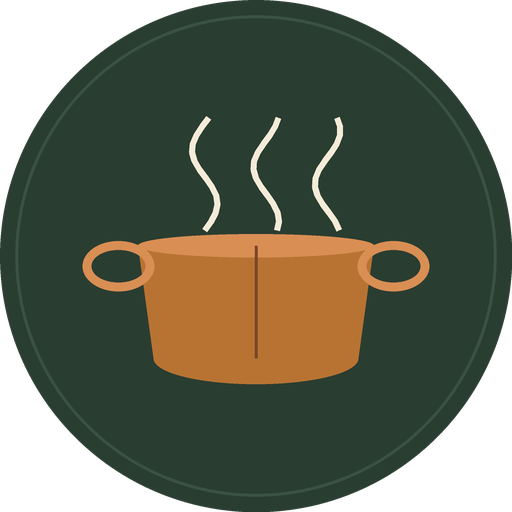
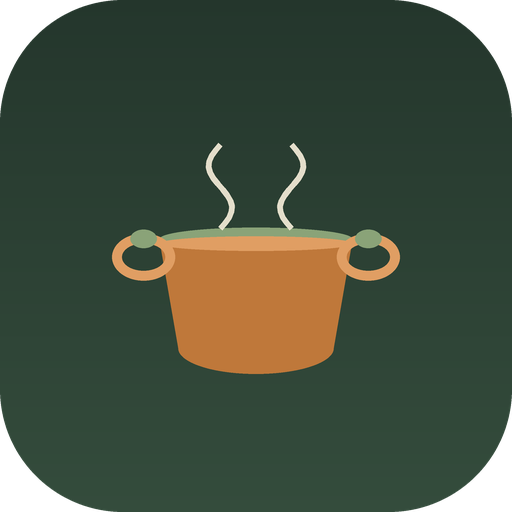
Add files via upload

diff --git a/style.css b/style.css
@@ -1,5 +1,5 @@
 /* ===========================================================
-   Copper Larder — design tokens
+   Verdigris — design tokens
    =========================================================== */
 :root {
   /* greens */
@@ -197,21 +197,41 @@ button { font-family: var(--font-body); cursor: pointer; }
 .btn-danger .icon { stroke: var(--copper-dark); }
 
 /* ===========================================================
-   Tag bar — hanging pantry labels
+   Tag section — a little hanging-label cloud, always visible
    =========================================================== */
-.tag-bar {
+.tag-section {
   position: relative;
   z-index: 1;
+  max-width: 1180px;
+  margin: 0 auto;
+  padding: 16px 20px 4px;
+}
+.tag-section-head {
   display: flex;
-  gap: 10px;
-  padding: 14px 20px 6px;
-  overflow-x: auto;
-  scrollbar-width: thin;
+  align-items: center;
+  gap: 7px;
+  margin-bottom: 10px;
+}
+.tag-section-head .icon { width: 15px; height: 15px; stroke: var(--copper); }
+.tag-section-head h2 {
+  font-family: var(--font-mono);
+  font-size: 0.72rem;
+  letter-spacing: 0.06em;
+  text-transform: uppercase;
+  color: var(--ink-soft);
+  margin: 0;
+  font-weight: 700;
+}
+
+.tag-bar {
+  display: flex;
+  flex-wrap: wrap;
+  gap: 8px 10px;
+  align-items: center;
 }
 
 .tag-chip {
   position: relative;
-  flex-shrink: 0;
   display: inline-flex;
   align-items: center;
   gap: 6px;
@@ -225,7 +245,12 @@ button { font-family: var(--font-body); cursor: pointer; }
   border-radius: 3px 10px 10px 3px;
   cursor: pointer;
   white-space: nowrap;
+  line-height: 1.3;
 }
+/* tag-cloud sizing — busier tags read a little bigger */
+.tag-chip.size-2 { font-size: 0.82rem; padding: 8px 15px 8px 21px; }
+.tag-chip.size-3 { font-size: 0.92rem; padding: 9px 16px 9px 22px; font-weight: 700; }
+
 .tag-chip::before {
   content: "";
   position: absolute;
@@ -248,6 +273,7 @@ button { font-family: var(--font-body); cursor: pointer; }
 
 /* ===========================================================
    Recipe grid — index cards pinned to the board
+
    =========================================================== */
 main#mainArea { position: relative; z-index: 1; padding: 10px 20px 40px; max-width: 1180px; margin: 0 auto; }
 
@@ -305,7 +331,7 @@ main#mainArea { position: relative; z-index: 1; padding: 10px 20px 40px; max-wid
 
 .card-thumb {
   width: 100%;
-  height: 140px;
+  height: 190px;
   border-radius: 6px;
   overflow: hidden;
   margin-bottom: 10px;
@@ -581,9 +607,11 @@ dialog.sheet::backdrop { background: rgba(20, 24, 18, 0.55); backdrop-filter: bl
   width: 100%;
   flex: 0 0 100%;
   scroll-snap-align: start;
-  max-height: 320px;
+  max-height: 58vh;
+  min-height: 220px;
   object-fit: contain;
   background: var(--cream-deep);
+  cursor: zoom-in;
 }
 .gallery-nav {
   position: absolute;
@@ -644,6 +672,50 @@ dialog.sheet::backdrop { background: rgba(20, 24, 18, 0.55); backdrop-filter: bl
 }
 
 /* ===========================================================
+   Lightbox — full-size image view
+   =========================================================== */
+dialog.lightbox {
+  position: fixed;
+  inset: 0;
+  margin: 0;
+  width: 100vw;
+  height: 100vh;
+  max-width: 100vw;
+  max-height: 100vh;
+  background: rgba(15, 18, 14, 0.94);
+  border: none;
+  padding: 0;
+  display: flex;
+  align-items: center;
+  justify-content: center;
+}
+dialog.lightbox::backdrop { background: transparent; }
+dialog.lightbox img {
+  max-width: 92vw;
+  max-height: 88vh;
+  object-fit: contain;
+  border-radius: 4px;
+  box-shadow: 0 20px 60px rgba(0,0,0,0.5);
+}
+.lightbox-close {
+  position: absolute;
+  top: 16px;
+  right: 16px;
+  background: rgba(255,255,255,0.12);
+  z-index: 3;
+}
+.lightbox-close .icon { stroke: var(--cream); }
+.lightbox-close:hover { background: rgba(255,255,255,0.22); }
+.lightbox-prev, .lightbox-next {
+  background: rgba(255,255,255,0.12);
+  width: 44px;
+  height: 44px;
+}
+.lightbox-prev { left: 16px; }
+.lightbox-next { right: 16px; }
+.lightbox-prev:hover, .lightbox-next:hover { background: rgba(255,255,255,0.22); }
+
+/* ===========================================================
    Toast
    =========================================================== */
 .toast {
@@ -677,7 +749,7 @@ dialog.sheet::backdrop { background: rgba(20, 24, 18, 0.55); backdrop-filter: bl
   .app-header { padding: 18px 14px 14px; }
   .brand-text h1 { font-size: 1.35rem; }
   main#mainArea { padding: 8px 14px 30px; }
-  .tag-bar { padding: 12px 14px 4px; }
+  .tag-section { padding: 12px 14px 4px; }
   .recipe-grid { gap: 18px 14px; grid-template-columns: repeat(auto-fill, minmax(150px, 1fr)); }
   dialog.sheet { width: 94vw; max-height: 92vh; }
 }

diff --git a/app.js b/app.js
@@ -1,5 +1,5 @@
 /* ===========================================================
-   Copper & Thyme — app.js
+   Verdigris — app.js
    =========================================================== */
 
 const DB_NAME = "copper-larder";
@@ -15,6 +15,7 @@ let currentImages = [];        // data URLs attached in the open form
 let editingId = null;          // id of recipe being edited, or null for new
 let detailRecipeId = null;     // id of recipe currently shown in detail dialog
 let galleryIndex = 0;
+let currentGalleryImages = [];
 
 /* ----------------------- IndexedDB ----------------------- */
 
@@ -136,6 +137,7 @@ function fileToDataURL(file) {
 
 function renderTagBar() {
   const bar = document.getElementById("tagBar");
+  const section = document.getElementById("tagSection");
   const counts = new Map(); // lowercase -> { label, count }
 
   recipes.forEach((r) => {
@@ -146,7 +148,11 @@ function renderTagBar() {
     });
   });
 
+  section.hidden = counts.size === 0;
+  if (counts.size === 0) return;
+
   const sorted = [...counts.entries()].sort((a, b) => a[1].label.localeCompare(b[1].label));
+  const maxCount = Math.max(...sorted.map(([, info]) => info.count));
 
   bar.innerHTML = "";
 
@@ -160,7 +166,10 @@ function renderTagBar() {
   sorted.forEach(([key, info]) => {
     const chip = document.createElement("button");
     chip.type = "button";
-    chip.className = "tag-chip" + (activeTag === key ? " is-active" : "");
+    // simple tag-cloud effect: busier tags read a little bigger
+    const ratio = info.count / maxCount;
+    const sizeClass = ratio > 0.66 ? " size-3" : ratio > 0.33 ? " size-2" : "";
+    chip.className = "tag-chip" + sizeClass + (activeTag === key ? " is-active" : "");
     chip.innerHTML = `${escapeHTML(info.label)} <span class="count">${info.count}</span>`;
     chip.addEventListener("click", () => {
       activeTag = activeTag === key ? null : key;
@@ -388,6 +397,8 @@ function renderImagePreviews() {
     item.className = "image-preview-item";
     const img = document.createElement("img");
     img.src = src;
+    img.style.cursor = "zoom-in";
+    img.addEventListener("click", () => openLightbox(currentImages, idx));
     item.appendChild(img);
     const btn = document.createElement("button");
     btn.type = "button";
@@ -492,6 +503,7 @@ function renderGallery(images) {
   const dots = document.getElementById("galleryDots");
   track.innerHTML = "";
   dots.innerHTML = "";
+  currentGalleryImages = images;
 
   if (!images.length) {
     gallery.hidden = true;
@@ -499,10 +511,11 @@ function renderGallery(images) {
   }
   gallery.hidden = false;
 
-  images.forEach((src) => {
+  images.forEach((src, i) => {
     const img = document.createElement("img");
     img.src = src;
     img.alt = "";
+    img.addEventListener("click", () => openLightbox(images, i));
     track.appendChild(img);
   });
   images.forEach((_, i) => {
@@ -523,11 +536,36 @@ function scrollGallery(dir) {
   track.scrollBy({ left: dir * track.clientWidth, behavior: "smooth" });
 }
 
+/* ----------------------- Lightbox (full-size image view) ----------------------- */
+
+const lightbox = document.getElementById("lightbox");
+let lightboxImages = [];
+let lightboxIndex = 0;
+
+function openLightbox(images, index) {
+  lightboxImages = images;
+  lightboxIndex = index;
+  showLightboxImage();
+  lightbox.showModal();
+}
+
+function showLightboxImage() {
+  document.getElementById("lightboxImg").src = lightboxImages[lightboxIndex] || "";
+  const multi = lightboxImages.length > 1;
+  document.getElementById("lightboxPrev").hidden = !multi;
+  document.getElementById("lightboxNext").hidden = !multi;
+}
+
+function lightboxStep(dir) {
+  lightboxIndex = (lightboxIndex + dir + lightboxImages.length) % lightboxImages.length;
+  showLightboxImage();
+}
+
 /* ----------------------- Export / Import ----------------------- */
 
 function exportData() {
   const payload = {
-    app: "copper-and-thyme",
+    app: "verdigris",
     exportedAt: new Date().toISOString(),
     recipes
   };
@@ -535,7 +573,7 @@ function exportData() {
   const url = URL.createObjectURL(blob);
   const a = document.createElement("a");
   a.href = url;
-  a.download = `copper-and-thyme-backup-${new Date().toISOString().slice(0, 10)}.json`;
+  a.download = `verdigris-backup-${new Date().toISOString().slice(0, 10)}.json`;
   document.body.appendChild(a);
   a.click();
   a.remove();
@@ -574,7 +612,7 @@ async function importData(file) {
     showToast(`Imported ${added} recipe${added === 1 ? "" : "s"}`);
   } catch (err) {
     console.error(err);
-    showToast("Couldn't read that file — is it a Copper & Thyme export?");
+    showToast("Couldn't read that file — is it a Verdigris export?");
   }
 }
 
@@ -669,8 +707,17 @@ function wireEvents() {
     e.target.value = "";
   });
 
+  // lightbox
+  document.getElementById("closeLightbox").addEventListener("click", () => lightbox.close());
+  document.getElementById("lightboxPrev").addEventListener("click", () => lightboxStep(-1));
+  document.getElementById("lightboxNext").addEventListener("click", () => lightboxStep(1));
+  lightbox.addEventListener("keydown", (e) => {
+    if (e.key === "ArrowLeft") lightboxStep(-1);
+    if (e.key === "ArrowRight") lightboxStep(1);
+  });
+
   // close dialogs on backdrop click
-  [recipeModal, detailModal].forEach((dlg) => {
+  [recipeModal, detailModal, lightbox].forEach((dlg) => {
     dlg.addEventListener("click", (e) => {
       if (e.target === dlg) dlg.close();
     });

diff --git a/index.html b/index.html
@@ -3,7 +3,7 @@
 <head>
 <meta charset="UTF-8" />
 <meta name="viewport" content="width=device-width, initial-scale=1, viewport-fit=cover" />
-<title>Copper & Thyme — your recipe pantry</title>
+<title>Verdigris — your recipe pantry</title>
 <meta name="description" content="A cozy pantry for every recipe screenshot, link, and scribble worth keeping." />
 <meta name="theme-color" content="#2A3D31" />
 <link rel="manifest" href="./manifest.json" />
@@ -43,8 +43,8 @@
   <div class="brand">
     <svg class="brand-pot" viewBox="0 0 24 24"><use href="#i-pot"/></svg>
     <div class="brand-text">
-      <h1>Copper & Thyme</h1>
-      <p class="tagline">every recipe worth keeping, in one warm pantry</p>
+      <h1>Verdigris</h1>
+      <p class="tagline">the patina of a kitchen well-loved</p>
     </div>
   </div>
 
@@ -70,9 +70,15 @@
   </div>
 </header>
 
-<nav id="tagBar" class="tag-bar" aria-label="Filter by tag">
-  <!-- chips injected by app.js -->
-</nav>
+<section class="tag-section" id="tagSection" hidden>
+  <div class="tag-section-head">
+    <svg class="icon"><use href="#i-leaf"/></svg>
+    <h2>Browse by tag</h2>
+  </div>
+  <nav id="tagBar" class="tag-bar" aria-label="Filter by tag">
+    <!-- chips injected by app.js -->
+  </nav>
+</section>
 
 <main id="mainArea">
   <section id="recipeGrid" class="recipe-grid"></section>
@@ -106,7 +112,7 @@
     </button>
     <input type="file" id="importFile" accept="application/json" hidden />
   </div>
-  <p class="footer-note">Everything is stored only on this device. To share your pantry with someone — or move it to a new phone — tap "Export" and send them the file; they open Copper &amp; Thyme and tap "Import" to add it to theirs.</p>
+  <p class="footer-note">Everything is stored only on this device. To share your pantry with someone — or move it to a new phone — tap "Export" and send them the file; they open Verdigris and tap "Import" to add it to theirs.</p>
 </footer>
 
 <!-- ============ NEW / EDIT RECIPE DIALOG ============ -->
@@ -217,6 +223,20 @@
       Edit
     </button>
   </footer>
+</dialog>
+
+<!-- ============ LIGHTBOX (full-size image view) ============ -->
+<dialog id="lightbox" class="lightbox">
+  <button type="button" class="icon-btn lightbox-close" id="closeLightbox" aria-label="Close">
+    <svg class="icon"><use href="#i-close"/></svg>
+  </button>
+  <button type="button" class="gallery-nav gallery-prev lightbox-prev" id="lightboxPrev" aria-label="Previous image">
+    <svg class="icon"><use href="#i-chevron-left"/></svg>
+  </button>
+  <img id="lightboxImg" src="" alt="" />
+  <button type="button" class="gallery-nav gallery-next lightbox-next" id="lightboxNext" aria-label="Next image">
+    <svg class="icon"><use href="#i-chevron-right"/></svg>
+  </button>
 </dialog>
 
 <div id="toast" class="toast" role="status" aria-live="polite"></div>

diff --git a/sw.js b/sw.js
@@ -1,4 +1,4 @@
-// Copper & Thyme — service worker
+// Verdigris — service worker
 // Network-first caching (so new deploys aren't stuck behind a stale cache),
 // plus handling of the Web Share Target POST.
 